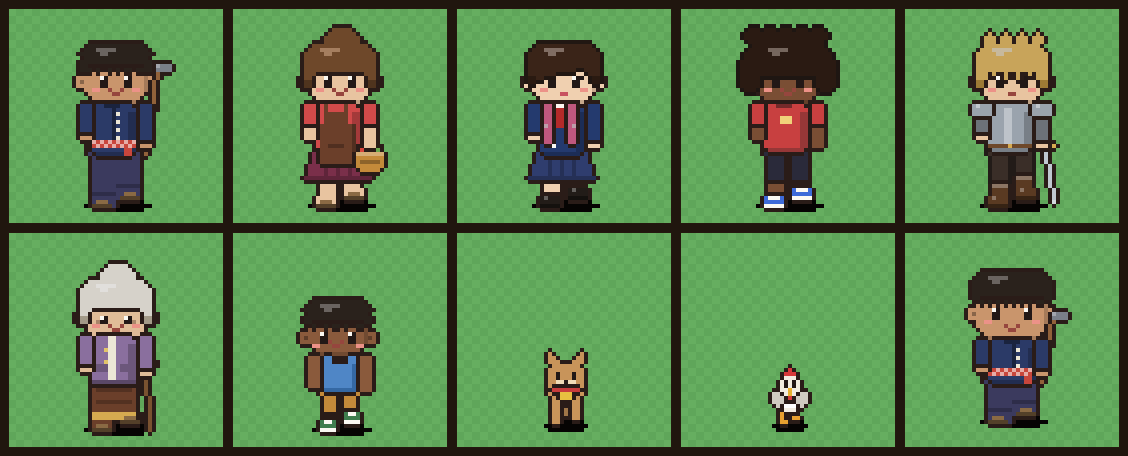
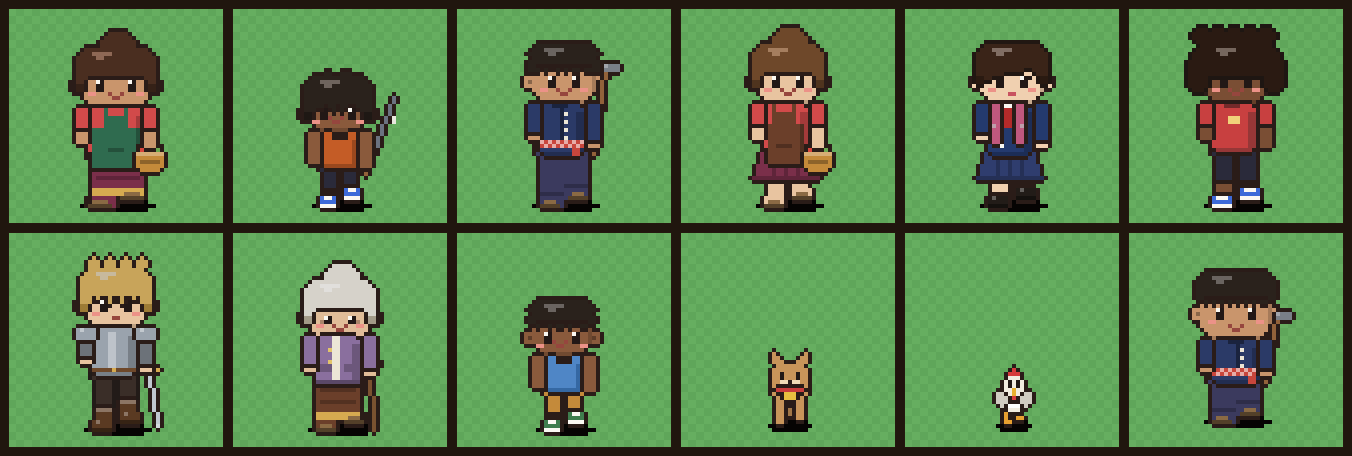
Refresh README assets for side-view UI and MCP cast
Replace the old top-down-only compositor screenshot, rebuild hero/side
showcase sheets, and add the MCP side-view auntie + pier-kid portraits
and native sheets so GitHub matches the dual-camera app.

diff --git a/README.md b/README.md
@@ -39,6 +39,8 @@ Dress a whole village cast without redrawing every sheet: bodies, clothes, hair,
   <img src="docs/assets/mcp_test_farmer_pa.png" height="96" alt="Farmer" />
   <img src="docs/assets/kid_farang_leo.png" height="96" alt="Kid" />
   <img src="docs/assets/mcp_test_dog_som.png" height="96" alt="Dog" />
+  <img src="docs/assets/mcp_side_auntie.png" height="96" alt="Market auntie side" />
+  <img src="docs/assets/mcp_side_pier_kid.png" height="96" alt="Pier kid side" />
 </p>
 
 Native top-down export sheets (4 directions × 30 frames):
@@ -46,6 +48,13 @@ Native top-down export sheets (4 directions × 30 frames):
 <p align="center">
   <img src="docs/assets/sheet-leo.png" width="420" alt="Leo native sheet" />
   <img src="docs/assets/sheet-emma.png" width="420" alt="Emma native sheet" />
+</p>
+
+Native side-view export sheets (3 directions × 30 frames) — composed via MCP:
+
+<p align="center">
+  <img src="docs/assets/sheet-side-auntie.png" width="420" alt="Market auntie side sheet" />
+  <img src="docs/assets/sheet-side-pier-kid.png" width="420" alt="Pier kid side sheet" />
 </p>
 
 ---
@@ -62,7 +71,7 @@ Flip **Top-down ↔ Side-view** in panel 1 and the outfit carries over. Every to
 | Exports | native · RPG Maker · Godot · frames | native · Godot · frames |
 
 <p align="center">
-  <img src="docs/assets/side-cast.png" width="720" alt="Side-view cast (last card is the top-down farmer for comparison)" />
+  <img src="docs/assets/side-cast.png" width="720" alt="Side-view cast with MCP auntie + pier kid (last card is top-down farmer for comparison)" />
 </p>
 <p align="center">
   <img src="docs/assets/side-walk.png" width="420" alt="Side-view walk cycle: right, left, front" />
